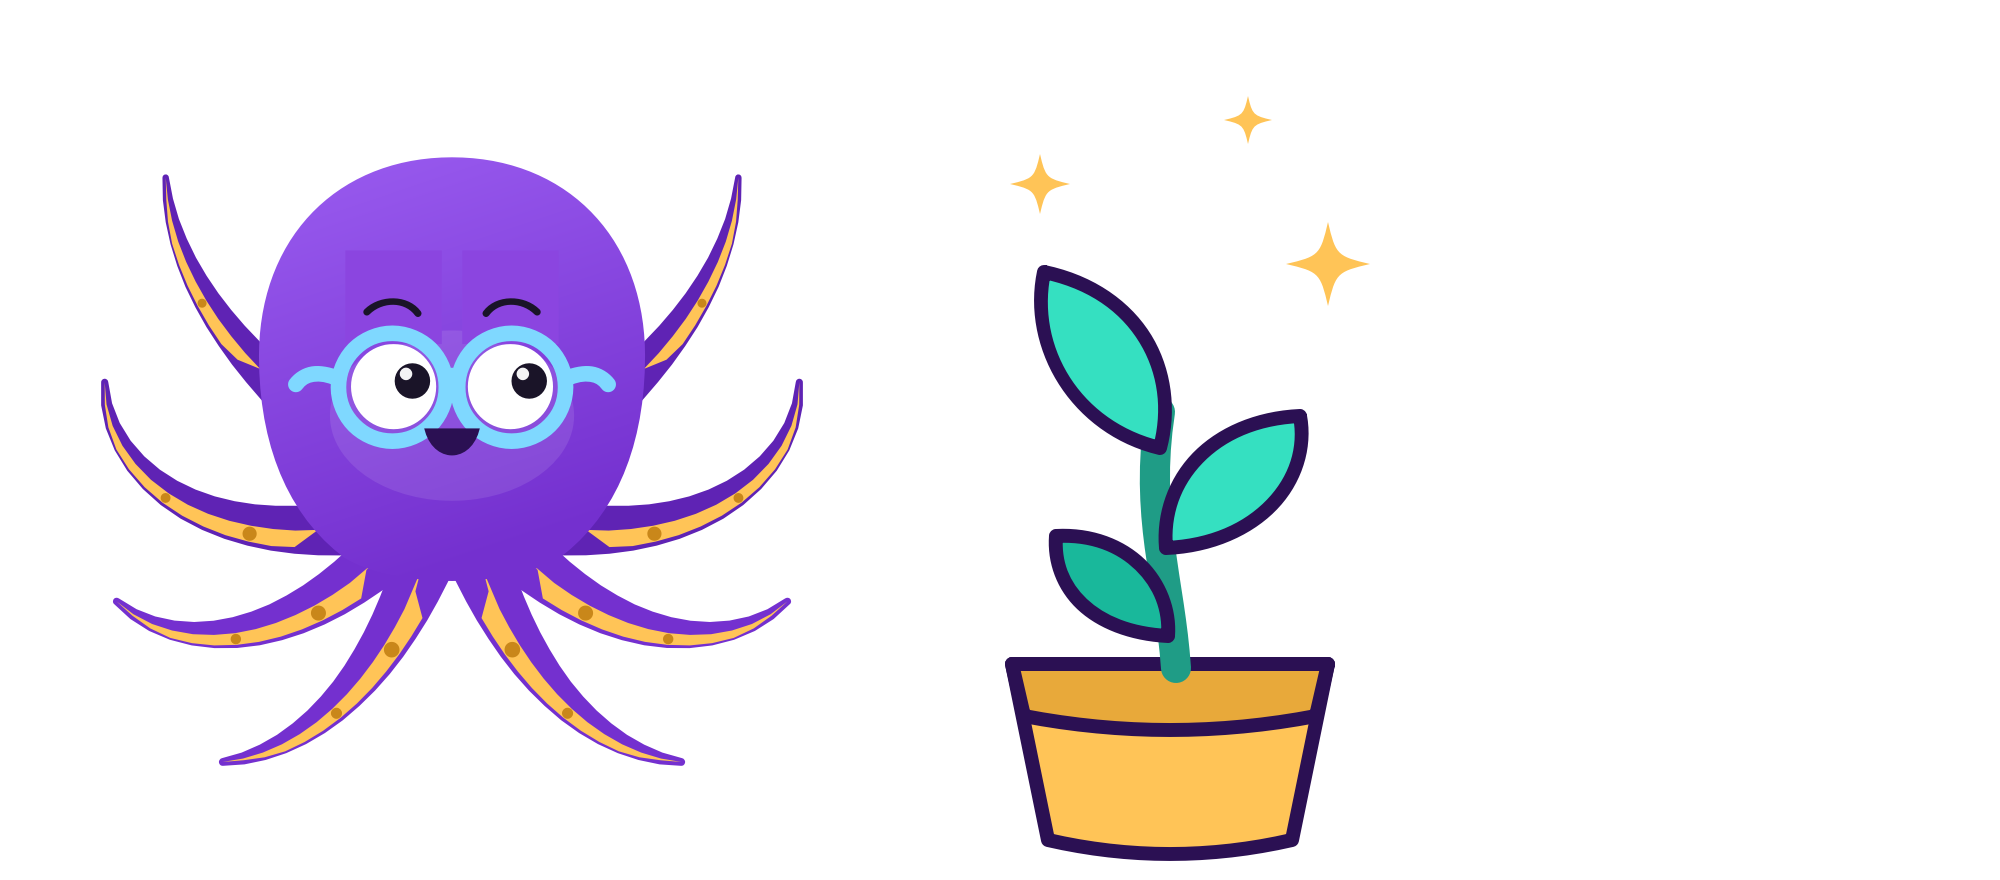
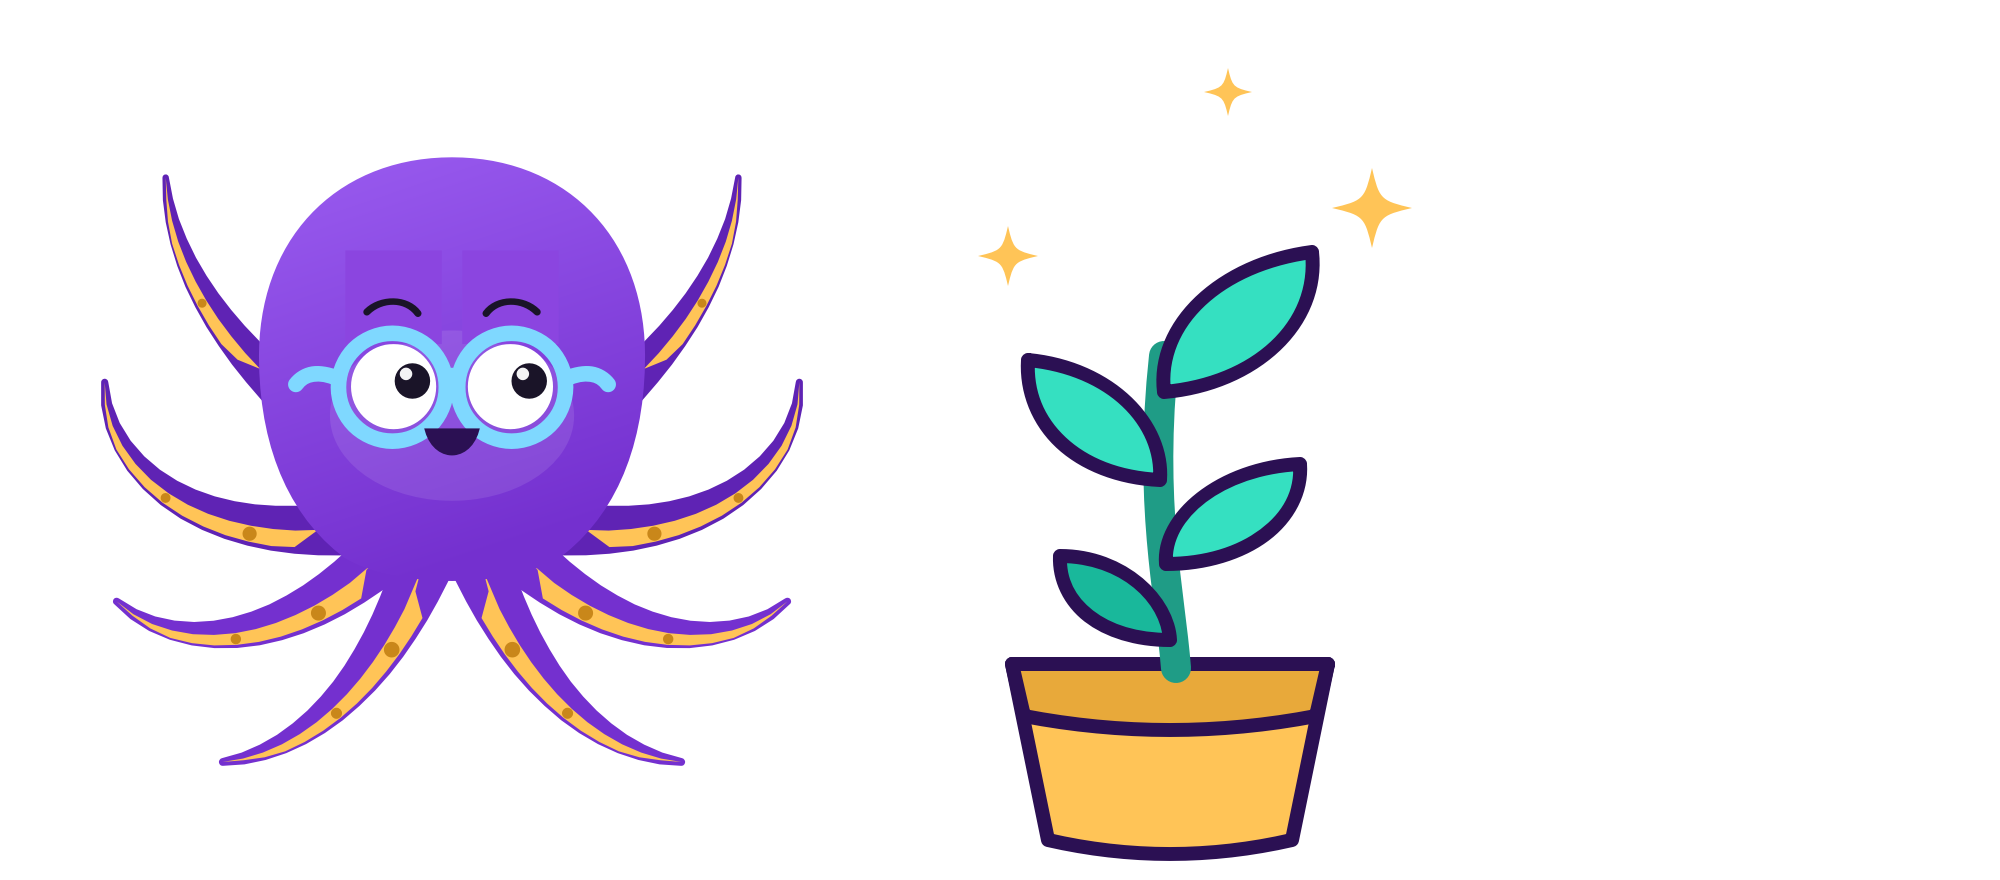
A fourth leaf for opportunity, and the name in blue and dark gold
Funding and scholarships are half of what 🎯 Chances is for and nothing in the
picture said so, so `opportunity` joins skills, knowledge and collaboration -- in
the colour money is.

It got a leaf of its own rather than being the one word that is only text. Every
word in this picture rides a leaf, and that rule is what keeps the sequence
reading as one thing instead of as captions over a plant. The stem is taller now
and the four alternate up it, each a little larger than the one below, with the
glints moved up and out of the way.

The name is blue then dark gold: the blue off his glasses, the gold off his
suckers, both deepened until they clear 3:1 on a white README as well as on a
dark one -- blue 3.89/4.87, gold 3.57/5.30. `opportunity` measures 3.95/4.79.

One loop is twenty-one seconds. Four words need the room.

diff --git a/docs/make_grow_scene.py b/docs/make_grow_scene.py
@@ -117,36 +117,39 @@ def placed(markup: str, x: int, y: int, size: int) -> str:
     return f'<g transform="translate({x},{y}) scale({k:.4f})">{inner}</g>'
 
 
-CYCLE = "19s"            # a word needs time to be read, and three of them need it three times
+CYCLE = "21s"            # a word needs time to be read, and there are four of them now
 
 # The cycle, as fractions of it. The stem has to REACH its height before a leaf opens, or a leaf
 # hangs in the air above a stem that has not got there yet -- which is exactly what it was doing.
-RISE_END = 0.24          # the stem is at full height here, carrying its leaves still folded
+RISE_END = 0.20          # the stem is at full height here, carrying its leaves still folded
 HOLD_END = 0.95          # it stays grown for most of the cycle, then folds away
 
 # Each leaf opens, and the word it stands for takes the place of the one before it. The leaves are
-# spread much further apart than the growing alone needed, because the pace is now set by reading
-# rather than by the plant: three words a third of a second apart would be a flicker, not a sentence.
+# spread much further apart than the growing alone needed, because the pace is set by reading rather
+# than by the plant: four words a third of a second apart would be a flicker, not a sentence.
 LEAVES = [  # (opens, finished opening)
-    (0.27, 0.34),
-    (0.41, 0.48),
-    (0.55, 0.62),
+    (0.23, 0.29),
+    (0.35, 0.41),
+    (0.47, 0.53),
+    (0.59, 0.65),
 ]
-# A colour each, and all three chosen to clear 3:1 against BOTH a white README and a dark one --
-# large bold text, so 3:1 is the bar. The pretty versions of these (the pale glass blue, the light
-# pink) sit at about 2:1 on white and vanish there, which is the same mistake the suckers made.
+# A colour each, every one of them measured against BOTH a white README and a dark one -- large bold
+# text, so 3:1 is the bar. The pretty versions fail it: the leaf teal sits at 2.51 on white and the
+# glasses blue at 2.97, which is the same mistake the suckers made, so these are the deepened ones.
 WORDS = [   # (the word, when it fades in, when it fades out, its colour)
-    ("skills",        0.28, 0.44, "#0f9880"),   # the leaf teal, deepened until white can hold it
-    ("knowledge",     0.42, 0.58, "#7a5cff"),   # the brand purple
-    ("collaboration", 0.56, 0.80, "#d94fb0"),   # pink, the third hue the badge carries
+    ("skills",        0.24, 0.37, "#0f9880"),   # the leaf teal, deepened until white can hold it
+    ("knowledge",     0.36, 0.49, "#7a5cff"),   # the brand purple
+    ("collaboration", 0.48, 0.61, "#d94fb0"),   # pink, the third hue the badge carries
+    # funding and scholarships, which is what 🎯 Chances is for -- and the colour money has
+    ("opportunity",   0.60, 0.78, "#c06a12"),
 ]
-WORD_AT = (800, 240)     # all three in the same place, so each replaces the last
+WORD_AT = (800, 240)     # all four in the same place, so each replaces the last
 
-# ...and the last thing to arrive is the name, in his own two colours: the gold off his suckers and
-# a blue taken from his glasses and deepened until it reads on white as well as on dark.
-NAME_ON, NAME_OFF = 0.83, 0.98
-NAME_GOLD = "#c9871a"
-NAME_BLUE = "#2789bd"
+# ...and the last thing to arrive is the name, in his own two colours: a blue taken from his glasses
+# and the dark gold off his suckers, both deepened until they read on white as well as on dark.
+NAME_ON, NAME_OFF = 0.82, 0.98
+NAME_BLUE = "#2789bd"    # 3.89 on white, 4.87 on dark
+NAME_GOLD = "#b87b12"    # 3.57 on white, 5.30 on dark
 
 
 def scaled(inner: str, ox: float, oy: float, values: str, keytimes: str, splines: str) -> str:
@@ -237,7 +240,7 @@ def name() -> str:
     return (f'<text x="{x}" y="{y}" text-anchor="middle" opacity="0"'
             f' font-family="Segoe UI,Helvetica Neue,Helvetica,Arial,sans-serif"'
             f' font-size="52" font-weight="700" letter-spacing="-0.5">'
-            f'<tspan fill="{NAME_GOLD}">my</tspan><tspan fill="{NAME_BLUE}">GeeKy</tspan>'
+            f'<tspan fill="{NAME_BLUE}">my</tspan><tspan fill="{NAME_GOLD}">GeeKy</tspan>'
             f'<animate attributeName="opacity" values="0;0;1;1;0;0"'
             f' keyTimes="0;{NAME_ON:.3f};{NAME_ON + snap:.3f};'
             f'{NAME_OFF - snap:.3f};{NAME_OFF:.3f};1"'
@@ -264,12 +267,16 @@ def plant() -> str:
     out.append(f'<path d="M506 332 L664 332 L646 420 Q585 434 524 420 Z" fill="{POT}"/>')
     out.append(f'<path d="M506 332 L664 332 L658 358 Q585 372 512 358 Z" fill="{POT_DEEP}"/>')
 
-    stem = (f'<path d="M588 334 C585 290 572 258 580 206" fill="none" stroke="{STEM}"'
+    # A fourth word needs a fourth leaf: every word in this picture rides one, and an `opportunity`
+    # with nothing under it would be the only one that is just text. So the stem is taller and the
+    # four alternate up it, each a little larger than the one below.
+    stem = (f'<path d="M588 334 C585 296 574 252 582 178" fill="none" stroke="{STEM}"'
             f' stroke-width="15"/>')
     leaves = "".join([
-        leaf("M584 318 C546 316 526 294 528 268 C564 266 586 292 584 318Z", LEAF_DEEP, 584, 318, 0),
-        leaf("M583 274 C629 272 656 240 650 208 C606 210 580 240 583 274Z", LEAF, 583, 276, 1),
-        leaf("M580 224 C538 214 514 174 522 136 C570 146 590 186 580 224Z", LEAF, 580, 226, 2),
+        leaf("M585 320 C551 320 529 302 530 278 C562 278 584 300 585 320Z", LEAF_DEEP, 585, 320, 0),
+        leaf("M583 282 C623 282 652 260 650 232 C610 234 581 258 583 282Z", LEAF, 583, 284, 1),
+        leaf("M580 240 C538 238 512 212 514 180 C556 184 582 212 580 240Z", LEAF, 580, 242, 2),
+        leaf("M582 196 C628 192 660 162 656 126 C610 132 578 162 582 196Z", LEAF, 582, 198, 3),
     ])
     # the stem and its leaves rise together, out of the soil
     out.append(scaled(stem + leaves, *SOIL,
@@ -277,9 +284,9 @@ def plant() -> str:
                       keytimes=f"0;{RISE_END};{HOLD_END};1",
                       splines=".25 .7 .35 1;0 0 1 1;.7 0 .9 .4"))
     out.append('</g>')
-    out.append(spark(664, 132, 21, 0))
-    out.append(spark(520, 92, 15, 1))
-    out.append(spark(624, 60, 12, 2))
+    out.append(spark(686, 104, 20, 0))
+    out.append(spark(504, 128, 15, 1))
+    out.append(spark(614, 46, 12, 2))
     return (chr(10) + "  ").join(out)
 
 
